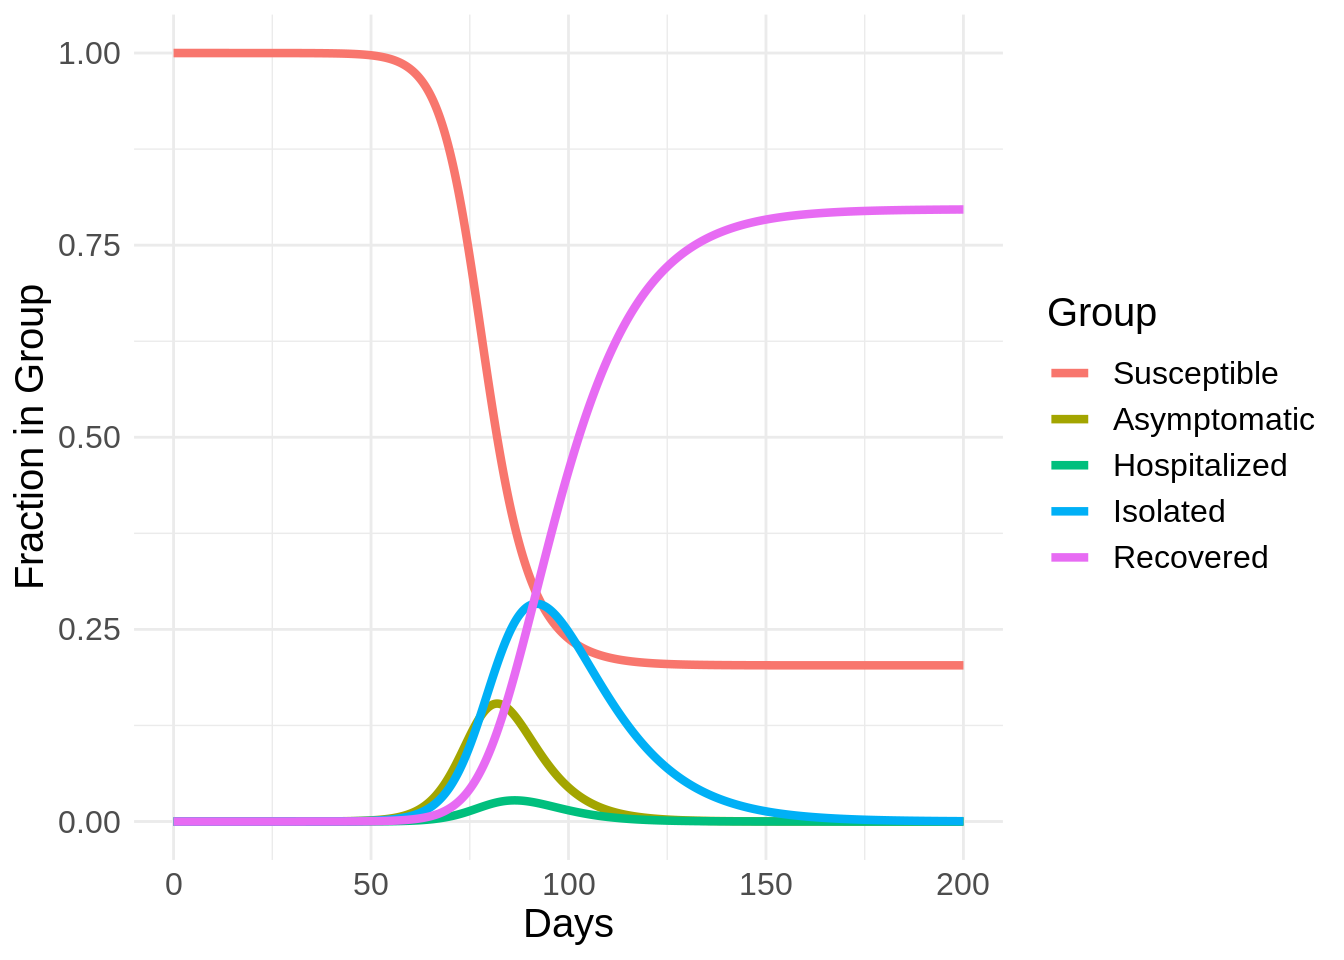
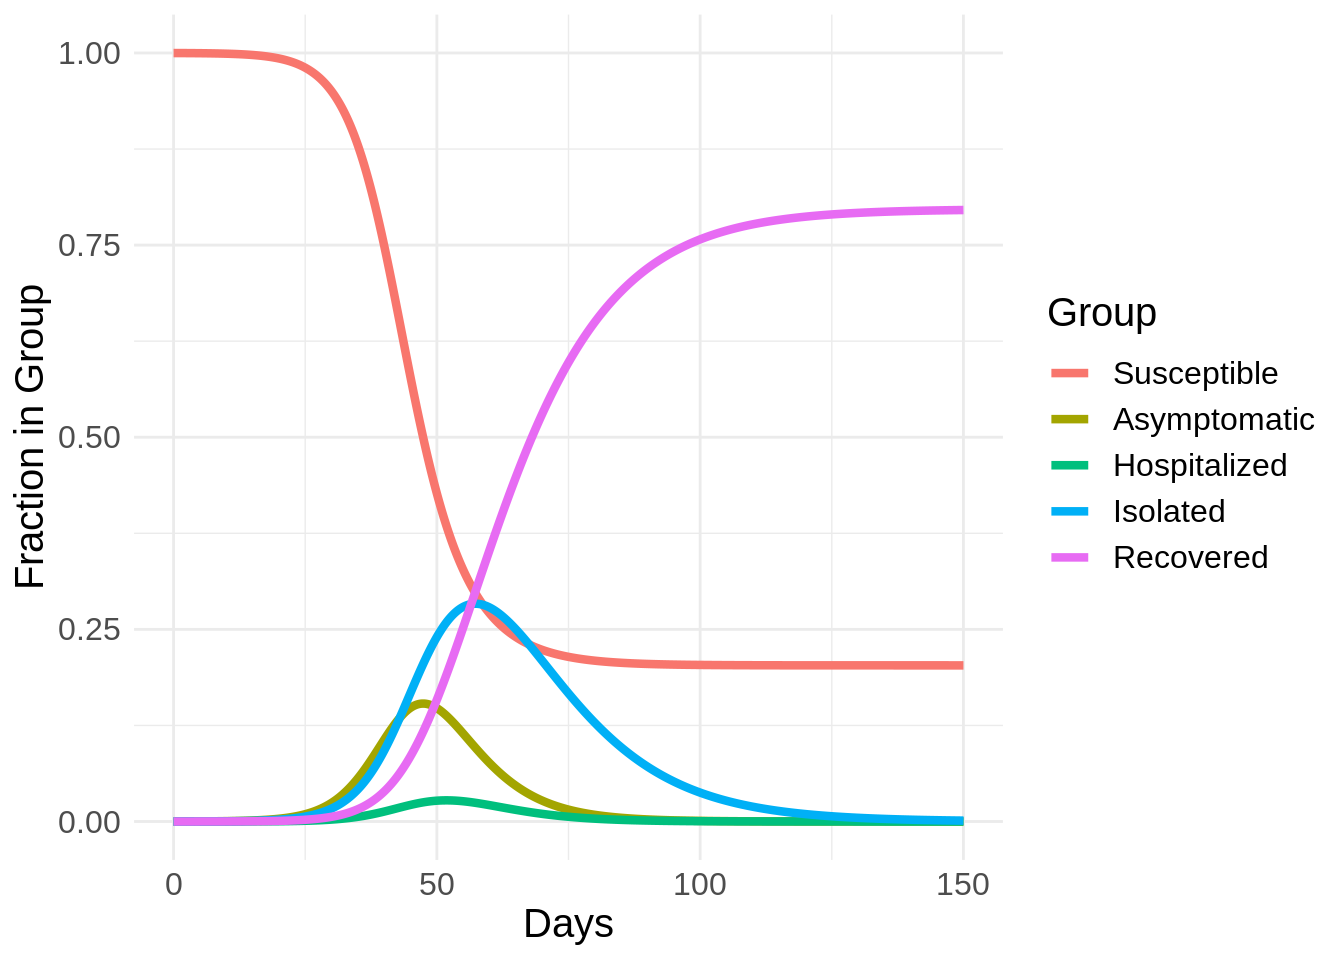
fix us population

diff --git a/content/post/why-banning-international-travel-has-little-effect-on-coronavirus-spread.html b/content/post/why-banning-international-travel-has-little-effect-on-coronavirus-spread.html
@@ -14,6 +14,7 @@ image:
 
 
 
+<p><em>Edit: a previous version of this post had the US population set as <code>3e11</code>, which is 300 billion, instead of <code>3e8</code>, which is 300 million. Fixing this shifts the curves to the left but does not change the interpretation of the results. Thank you Peter Farrell for the heads up.</em></p>
 <p>In my <a href="/flattening-the-curve/">previous post</a>, I covered the SIR model and why “social distancing” is so effective at slowing infection spread and reducing healthcare system burden. In this post I’m going to cover another intervention, banning international travel.</p>
 <p>To do this, I’m going to extend the SIR model. One of the reasons that the coronavirus spreads so easily is that people can be contagious for several days before symptoms begin. So, instead of assuming three states (Susceptible, Infectious, and Recovered), I’m going to assume the infection can follow five states: Susceptible (S), Asymptomatic (A), Hospitalized (H), Isolated (I), and Recovered (R). The Susceptible become infected but Asymptomatic. The Asymptomatic eventually become ill; some become ill enough to be Hospitalized and the rest become Isolated. The Hospitalized eventually heal enough to be Isolated. Eventually the Isolated become Recovered. I assume that only the Asymptomatic can spread the virus because both the Hospitalized and Isolated are following effective quarantine measures.</p>
 <div class="figure">
@@ -97,12 +98,12 @@ tau &lt;- 1 / hospitalized_time
 phi &lt;- 1 / isolated_time
 
 us_asymptomatic &lt;- 20000
-us_population &lt;- 3e11
+us_population &lt;- 3e8
 fraction_asymptomatic_us &lt;- us_asymptomatic / us_population
 
 parms &lt;- c(beta = beta, kappa = kappa, eta = eta, tau = tau, phi = phi)
 init &lt;- c(S = 1 - fraction_asymptomatic_us, A = fraction_asymptomatic_us, H = 0, I = 0, R = 0)
-times &lt;- seq(0, 200, length.out = 2000)
+times &lt;- seq(0, 150, length.out = 2000)
 
 sahir_out &lt;- lsoda(init, times, sahir_ode, parms)
 
@@ -173,7 +174,7 @@ simulate_sahir_travel &lt;- function(rho) {
         S1 = 1 - fraction_asymptomatic_us, A1 = fraction_asymptomatic_us, H1 = 0, I1 = 0, R1 = 0,
         S2 = 1 - fraction_asymptomatic_europe, A2 = fraction_asymptomatic_europe, H2 = 0, I2 = 0, R2 = 0
     )
-    times &lt;- seq(0, 200, length.out = 2000)
+    times &lt;- seq(0, 150, length.out = 2000)
     
     sahir_out &lt;- lsoda(init, times, sahir_travel_ode, parms)
     
